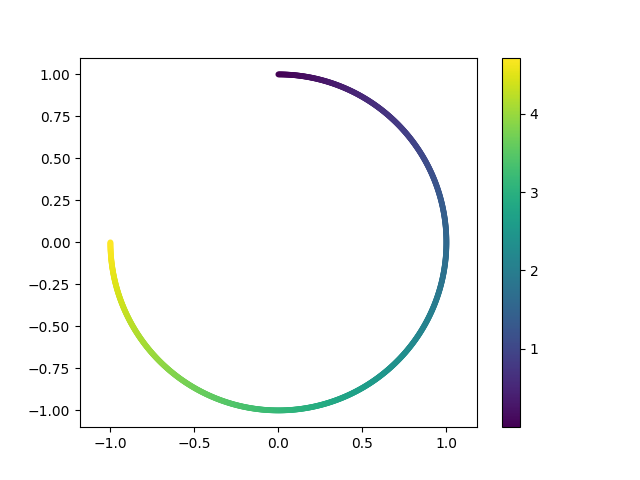
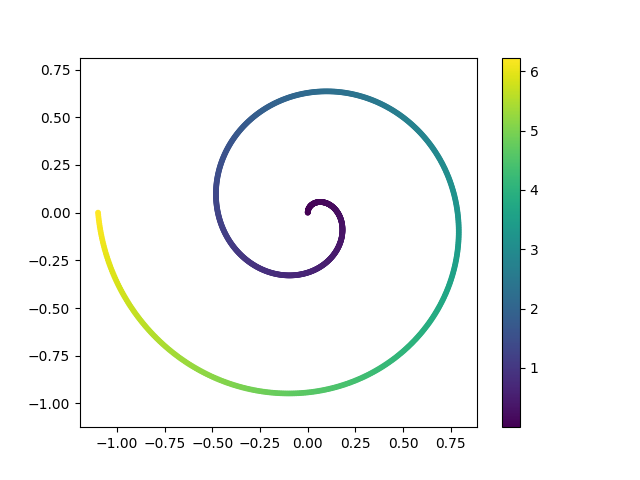
Use archimedean spiral.

diff --git a/01_eikonal.py b/01_eikonal.py
@@ -1,3 +1,4 @@
+import math
 import torch
 torch.manual_seed(0)
 
@@ -7,13 +8,17 @@ import deepxde as dde
 import matplotlib.pyplot as plt
 
 ref = dde.geometry.Interval(0, 1)
-l = 3 / 2 * torch.pi
+
+# Archimedean spiral
+l = 3.5 * torch.pi
+a = 0.1
+r = lambda x: a * x
 
 def to_global(x):
     return torch.cat((
         x,
-        torch.sin(l * x),
-        torch.cos(l * x),
+        r(l * x) * torch.sin(l * x),
+        r(l * x) * torch.cos(l * x),
     ), dim=1)
 
 
@@ -31,12 +36,12 @@ def pde(y, u):
 def boundary(x, on_boundary):
     return dde.utils.isclose(x[0], 0)
 
-def g(_):
+def zero(_):
     return 0
 
-bc = dde.icbc.DirichletBC(geom, g, boundary)
+bc = dde.icbc.DirichletBC(geom, zero, boundary)
 data = dde.data.PDE(geom, pde, bc, num_domain=100, num_boundary=2)
-net = dde.nn.FNN([dim] + [128] * 3 + [1], "tanh", "Glorot uniform")
+net = dde.nn.FNN([dim] + [128] * 5 + [1], "tanh", "Glorot uniform")
 net.apply_feature_transform(lambda x: x[:, rdim:])
 
 model = dde.Model(data, net)
@@ -58,5 +63,6 @@ plt.savefig("01_eikonal.png")
 
 # Check that the solution is correct
 umax = u.max()
-print(f"u_max: {umax:.3f}  expected: {l:.3f}\n")
-assert abs(umax - l) < 1e-2
+exact = a / 2 * (l * (1 + l**2)**.5 + math.log(l + (1 + l**2)**.5))
+print(f"u_max: {umax:.3f}  exact: {exact:.3f}\n")
+assert abs(umax - exact) < 1e-2
